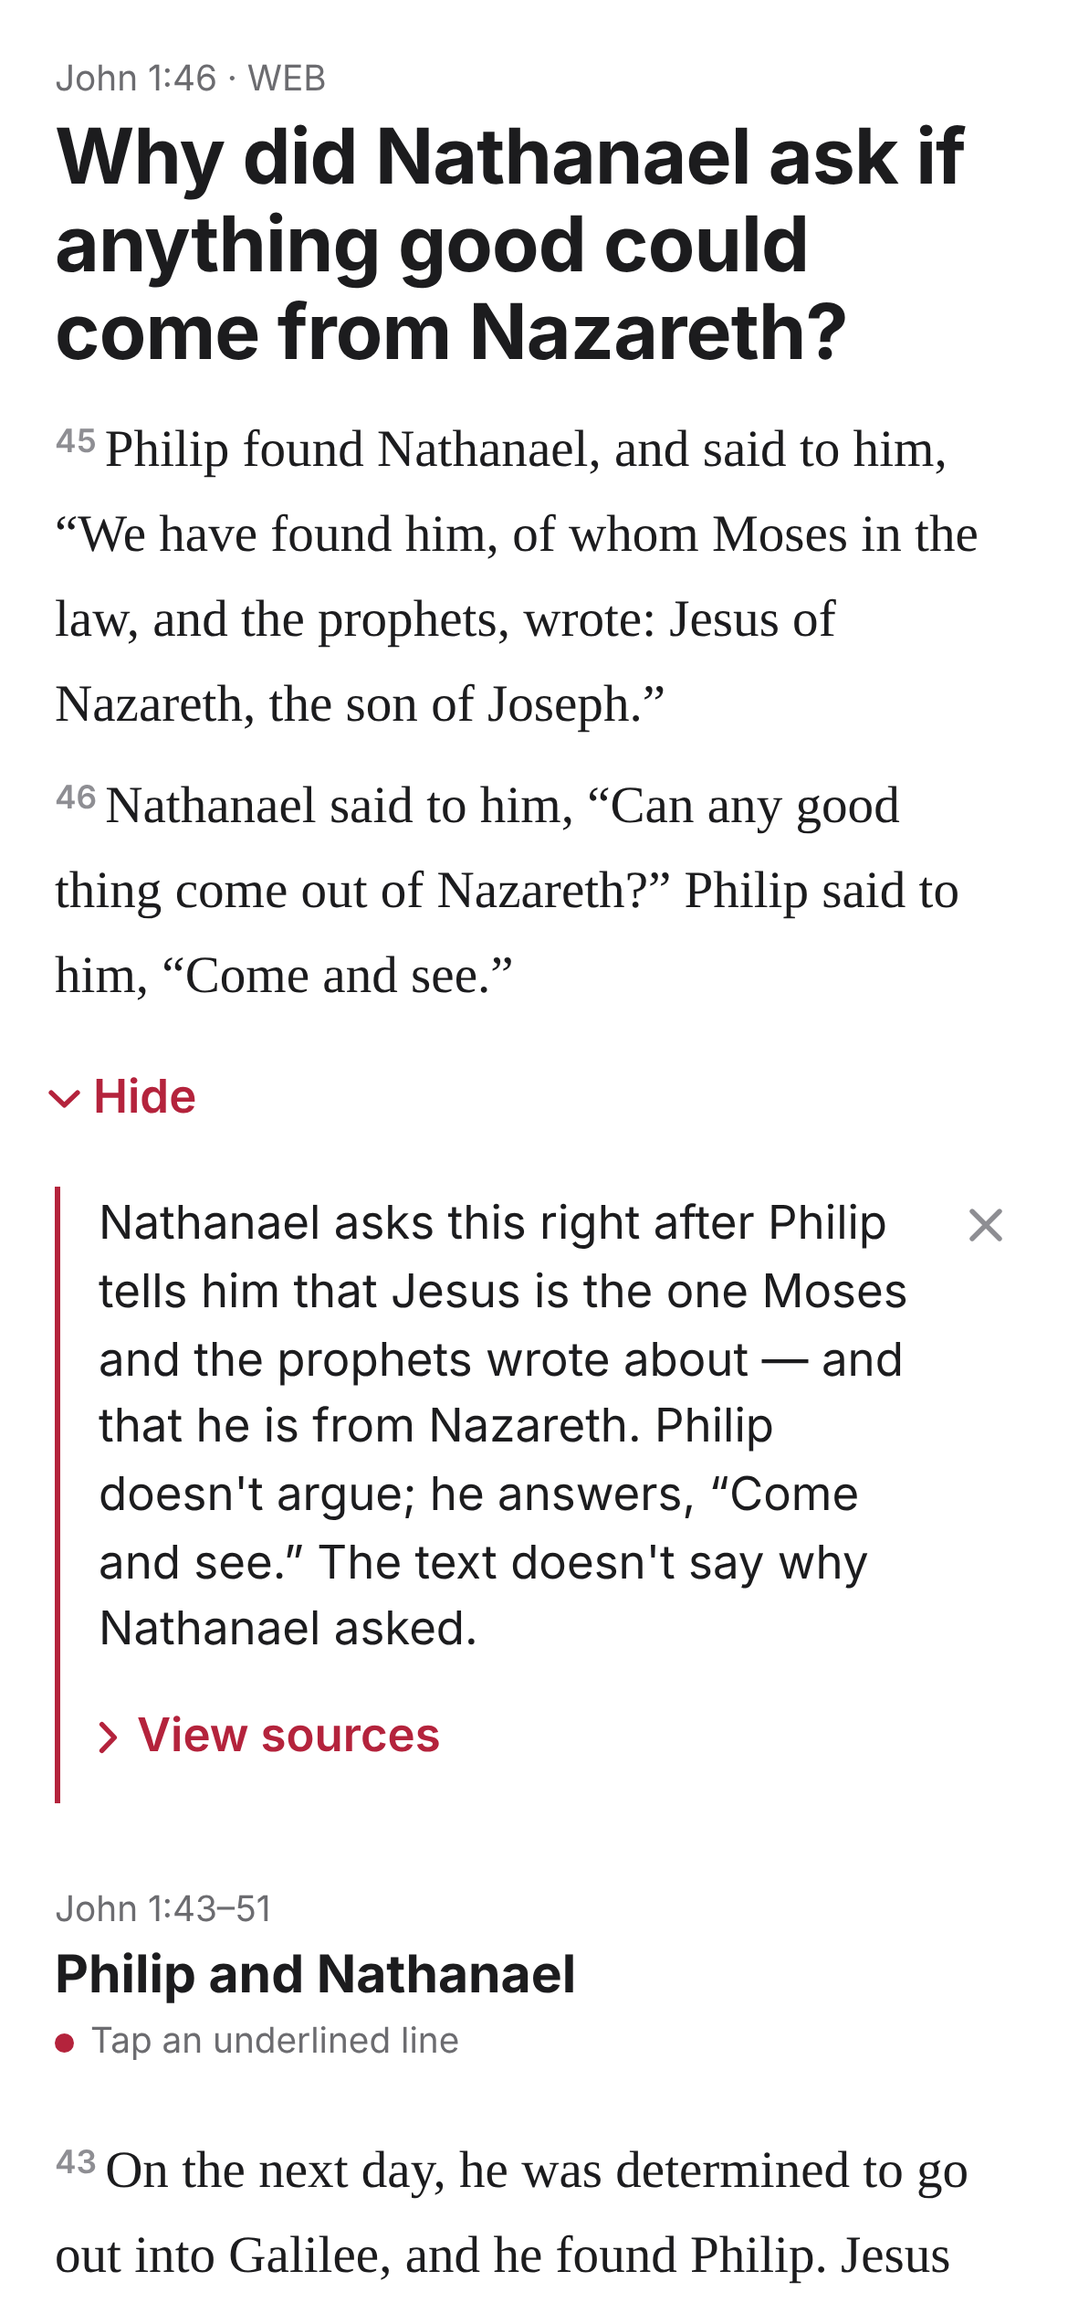
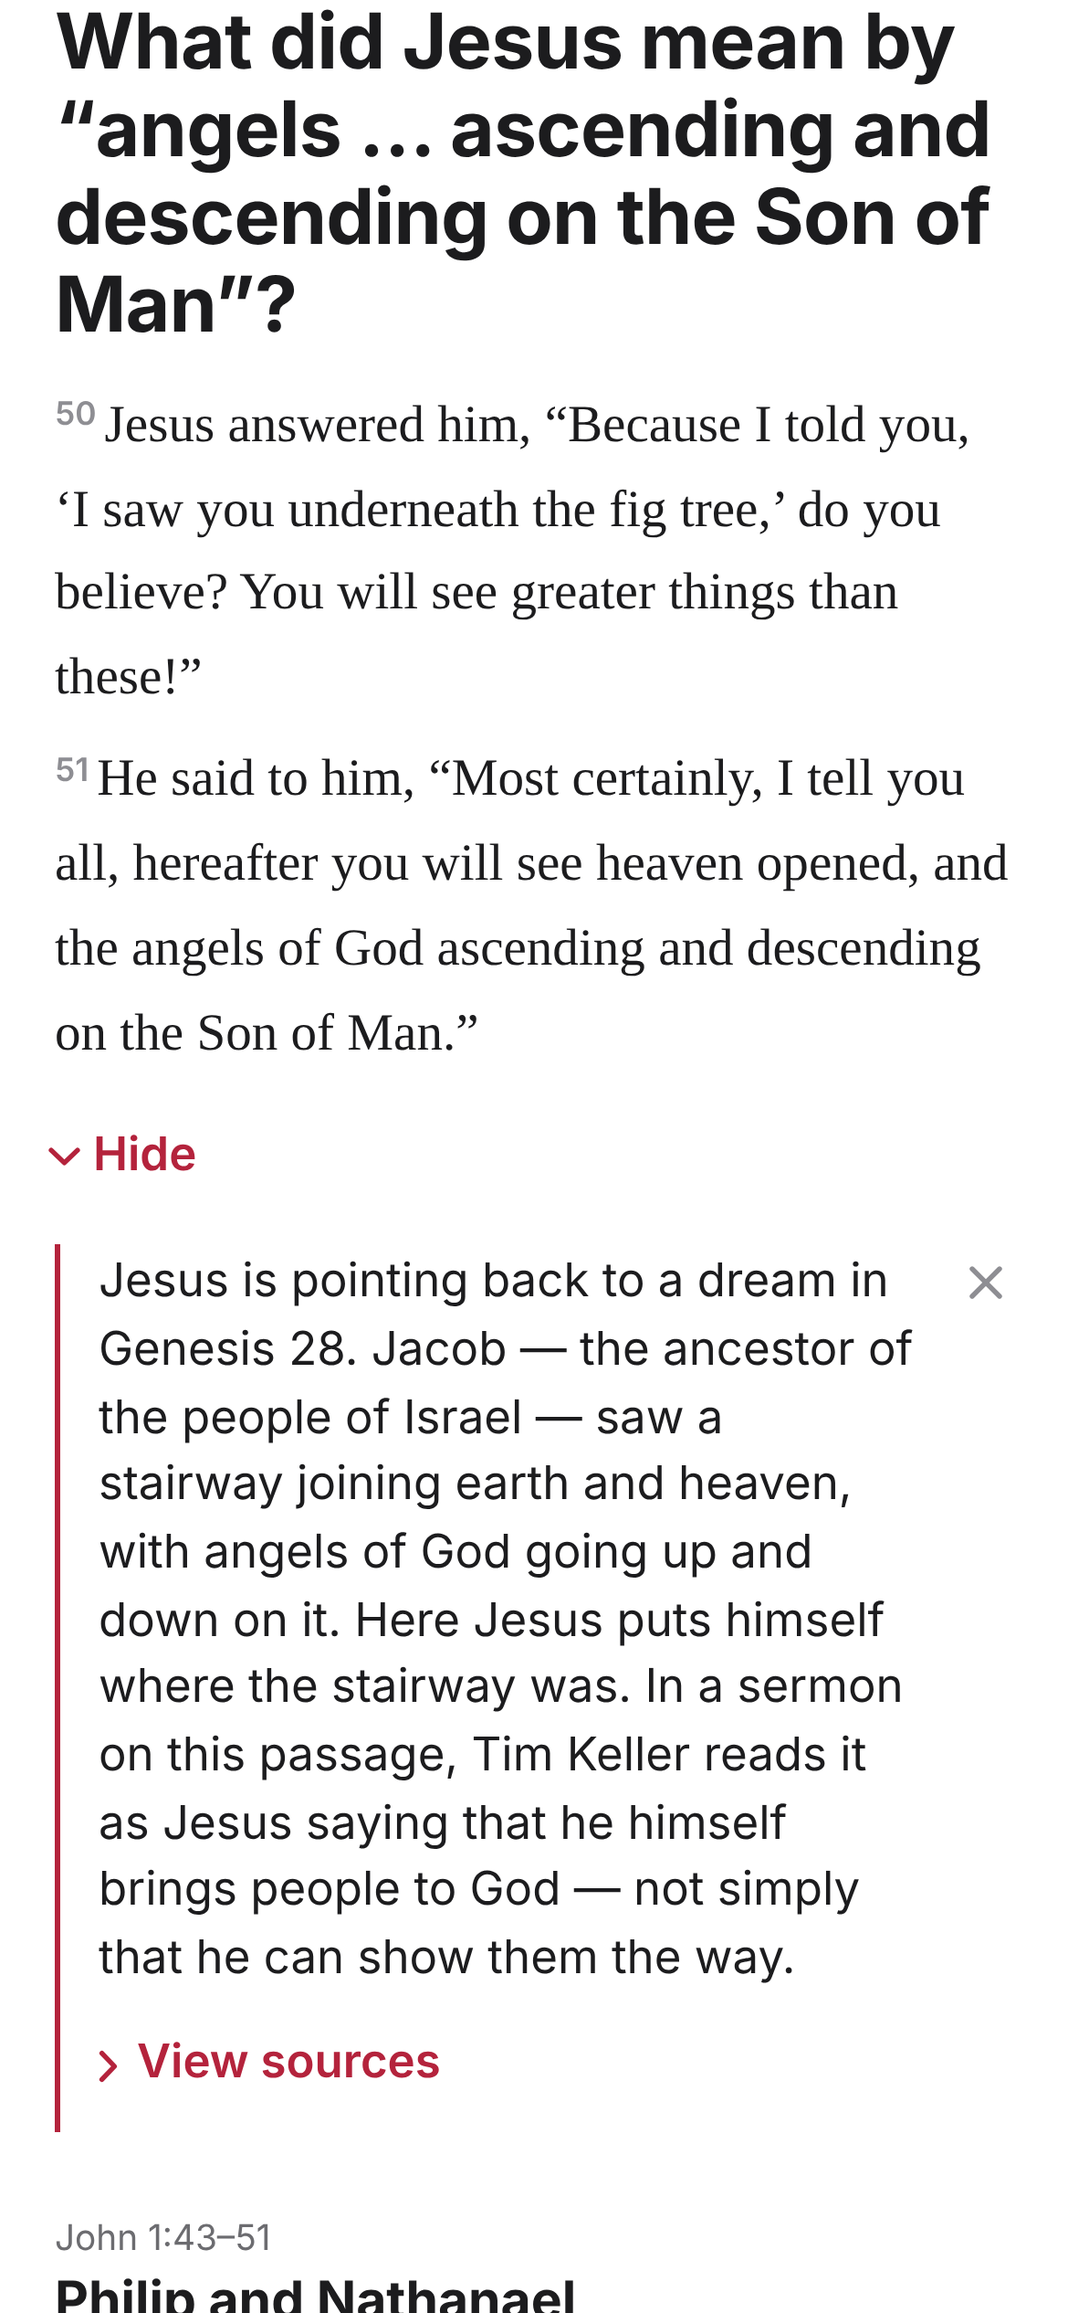
context-bible: 요 1:51 리뷰 초안(켈러 'You Shall See Heaven Open' 녹취 근거, 오디오 미대조)을 첫 화면 질문으로, 46·47 보류 유지, keller.md·REVIEW 갱신, 로봇 91/91
Claude-Session: https://claude.ai/code/session_01GVpU8e9h4SDinNEWWsTM6t

diff --git a/context_bible/robot.js b/context_bible/robot.js
@@ -12,6 +12,7 @@ const server = http.createServer((q, s) => {
   const f = path.join(DOCS, decodeURIComponent(q.url.split('?')[0].split('#')[0]));
   fs.readFile(f, (e, b) => { if (e) { s.writeHead(404); s.end(); } else { s.writeHead(200, { 'content-type': types[path.extname(f)] || 'text/plain' }); s.end(b); } });
 });
+const LEAD = 'v51'; // opening question (the one with a sourced explanation)
 const log = []; let pass = 0, fail = 0;
 const ok = (c, m) => { c ? pass++ : fail++; log.push(`${c ? 'PASS' : 'FAIL'} ${m}`); };
 
@@ -42,22 +43,24 @@ async function run(browser, base, name, opts, shots) {
   // lead question → See why → explanation → View sources (with checked commentaries) → hide
   ok(await page.locator('#q').isVisible() && (await page.locator('#q').innerText()).endsWith('?'), `[${name}] first screen starts with a question`);
   await tapEl('.lead .see');
-  ok(await page.locator('#note-v46').isVisible(), `[${name}] lead: See why opens the explanation`);
-  const leadEasy = await page.locator('#note-v46 .easy').innerText();
+  ok(await page.locator(`#note-${LEAD}`).isVisible(), `[${name}] lead: See why opens the explanation`);
+  const leadEasy = await page.locator(`#note-${LEAD} .easy`).innerText();
   ok(leadEasy.length > 80 && leadEasy.length < 560, `[${name}] lead: one short paragraph (${leadEasy.length} chars)`);
   if (shots) { await page.waitForTimeout(400); await page.screenshot({ path: path.join(OUT, `${name}-2-explanation.png`) }); }
-  await tapEl('#note-v46 .src-btn'); await page.waitForTimeout(1600);
-  const cited = await page.locator('#src-v46 .excerpt p').count(), coms = await page.locator('#src-v46 .com').count();
-  ok(cited >= 2 && coms === 0, `[${name}] lead: View sources shows the cited verses (${cited}) and no unchecked commentary`);
-  if (shots) await page.locator('#note-v46').screenshot({ path: path.join(OUT, `${name}-3-sources.png`) });
-  await tapEl('#note-v46 .src-btn');
-  ok(await page.locator('#src-v46').isHidden(), `[${name}] lead: Hide sources closes`);
+  await tapEl(`#note-${LEAD} .src-btn`); await page.waitForTimeout(1600);
+  const cited = await page.locator(`#src-${LEAD} .excerpt p`).count(), coms = await page.locator(`#src-${LEAD} .com`).count();
+  const sermon = await page.locator(`#src-${LEAD} .com a[href^="https://gospelinlife.com/sermon/"]`).count();
+  ok(cited >= 2 && coms === 1 && sermon === 1, `[${name}] lead: View sources shows Genesis 28:12 + John 1:51 (${cited} verses) and the one sermon source`);
+  if (shots) await page.locator(`#note-${LEAD}`).screenshot({ path: path.join(OUT, `${name}-3-sources.png`) });
+  await tapEl(`#note-${LEAD} .src-btn`);
+  ok(await page.locator(`#src-${LEAD}`).isHidden(), `[${name}] lead: Hide sources closes`);
   await tapEl('.lead .see');
-  ok(await page.locator('#note-v46').count() === 0, `[${name}] lead: Hide closes the explanation`);
-  ok(await page.locator('.mark[data-note="v46"]').count() === 0, `[${name}] verse 46 isn't marked twice`);
+  ok(await page.locator(`#note-${LEAD}`).count() === 0, `[${name}] lead: Hide closes the explanation`);
+  ok(await page.locator(`.mark[data-note="${LEAD}"]`).count() === 0, `[${name}] verse 51 isn't marked twice`);
+  ok((await page.locator('.lead .see').innerText()).includes('See why'), `[${name}] lead button says See why (sourced draft)`);
 
   let prev = null;
-  for (const id of ['v47', 'v51']) {
+  for (const id of ['v46', 'v47']) {
     const ls = await lines(id);
     // every line of the underlined phrase opens and closes the note with a real tap
     for (let k = 0; k < ls.length; k++) {
@@ -75,12 +78,12 @@ async function run(browser, base, name, opts, shots) {
     const easy = (await page.locator(`#note-${id} .easy`).innerText()).trim();
     ok(easy.length > 80 && easy.length < 520, `[${name}] ${id}: one short explanation (${easy.length} chars)`);
     ok(await page.locator(`#note-${id} button`).count() === 2, `[${name}] ${id}: only Close + View sources buttons`);
-    if (shots && id === 'v51') { await page.waitForTimeout(400); await page.screenshot({ path: path.join(OUT, `${name}-4-verse51.png`) }); }
+    if (shots && id === 'v46') { await page.waitForTimeout(400); await page.screenshot({ path: path.join(OUT, `${name}-4-verse46.png`) }); }
     await tapEl(`#note-${id} .src-btn`);
     await page.waitForTimeout(1600);
     const box = page.locator(`#src-${id}`);
     const ex = await box.locator('.excerpt p').count(), hl = await box.locator('mark.hl.on').count();
-    ok(await box.isVisible() && ex >= 2 && (id !== 'v51' || hl >= 1) && await box.locator('.com').count() === 0,
+    ok(await box.isVisible() && ex >= 2 && true && await box.locator('.com').count() === 0,
       `[${name}] ${id}: View sources shows passages (${ex} verses, ${hl} highlighted) + what the text does/doesn't say`);
     const sw = await page.evaluate(() => document.documentElement.scrollWidth);
     ok(sw <= opts.viewport.width, `[${name}] ${id}: no sideways scroll (${sw})`);

diff --git a/docs/context-bible/index.html b/docs/context-bible/index.html
@@ -162,9 +162,16 @@ function sourcesHTML(n){
   const cites = P.cite.map(ref => `
     <section>
       <div><span class="ref">${esc(prettyRef(ref))}</span> <span class="kind">\u00B7 WEB</span></div>
-      <div class="excerpt">${expand(ref).map(r => `<p><sup>${r.split(':')[1]}</sup> ${markup(D.texts.WEB[r], (n.links.find(l => l.highlight[r]) || {highlight:{}}).highlight[r])}</p>`).join('')}</div>
+      <div class="excerpt">${expand(ref).map(r => `<p><sup>${r.split(':')[1]}</sup> ${markup(D.texts.WEB[r], r === n.ref && P.status !== 'hold' ? [...new Set(n.links.flatMap(l => l.highlightSource))] : (n.links.find(l => l.highlight[r]) || {highlight:{}}).highlight[r])}</p>`).join('')}</div>
     </section>`).join('');
-  return `${cites}
+  const K = P.keller;
+  const sermon = K ? `
+    <section><h3>Source</h3>
+      <p class="com"><span class="ref">${esc(K.speaker)}, \u201C${esc(K.title)}\u201D</span> \u00B7 ${esc(K.date)} \u00B7 ${esc(K.scripture)}.
+      ${K.parts.map(x => `${esc(x.at)} ${esc(x.about)}`).join('; ')}. <a href="${esc(K.url)}" target="_blank" rel="noopener">Sermon page</a></p>
+      <p class="fine">Explanation is a paraphrase, not a quote. ${esc(K.status)} Review draft.</p>
+    </section>` : '';
+  return `${cites}${sermon}
     <section><p class="fine">${P.status === 'hold' ? 'This note sticks to what the text says. A fuller explanation is on hold until its sources are checked. ' : ''}Bible text: World English Bible, public domain.</p></section>`;
 }
 

diff --git a/context_bible/sources/keller.md b/context_bible/sources/keller.md
@@ -1,22 +1,27 @@
 # Tim Keller sources — what has actually been checked
 
 Rule (user, 2026-11-04): interpretation may come only from Tim Keller's own sermons and books that someone has **actually heard or read**.
-Editorial direction only — not an official or endorsed app. A title or listing alone is not evidence.
+Editorial direction only — not an official or endorsed app. A title or listing alone is not evidence. Explanations are short own-words paraphrases with a source link (user approved); no long quotes. Transcripts stay out of the repo.
+
+## John 1:51 (and 1:46) — "You Shall See Heaven Open"  → used for the 1:51 **review draft**
+- Official sermon page: **https://gospelinlife.com/sermon/you-shall-see-heaven-open/** — Tim Keller, **20 Dec 2009**, John 1:43–51, 26:08, SKU RS318-02. Codex read the overview: it links the passage to Jacob and heaven opening to the humbled. (Blocked from the cloud session.)
+- Transcript: https://clovermedia.s3.us-west-2.amazonaws.com/0b053f058a/attachments/You_Shall_See_Heaven_Open_Transcript.pdf — **third-party hosted, not an official/verified transcript**. 7 pages. Read by Codex **and** fetched and read by the dev session (2026-11-04; kept only in the session scratchpad, not in the repo).
+  - PDF pp.1–2, **02:26–05:05**: Genesis 28 — Jacob fleeing after cheating Esau, alone, dreams of a great stair with angels; the vision means God's presence coming into Jacob's life.
+  - PDF pp.3–4, **09:07–11:31**: if Jesus had only said "I can show you the gate of heaven / the connection," that would be a prophet's claim; instead he says heaven and earth meet on him — he himself (his life and death) is the connection, so God can come into the lives of people who have messed up their lives.
+  - PDF p.4, **11:31–12:52**: Nathanael's "Nazareth?" = disdain for a backwater, unimpressive place; Keller does **not** connect it to the Bethlehem prophecy.
+  - Known transcript errors: "Bethesda" for Bethsaida, misspelled names (Nathaniel, Bauchamp, Otter). Timestamps are the transcript's own, **not checked against the official audio**.
+- Status label: **transcript read, audio not verified.**
+- Corroborating lead only — **NOT inspected** (403): Redeemer 2006 Genesis leader guide "Heaven's Gate", printed p.189 Q7, https://graceb3.s3.amazonaws.com/wp-content/uploads/2018/05/GenesisLG.pdf . Do not cite as read.
 
 ## John 1:46 — "Nazareth?!"
-- URL: **https://gospelinlife.com/sermon/nazareth/** (confirmed by Codex in a browser, 2026-11-04)
-- Speaker: Tim Keller · Scripture: John 1:43–46 · Duration: 20:33 · Page has "Play Audio" / "Download Audio"
-- Date: **conflict, not resolved** — sermon detail page says **December 24, 2006**; the list blurb (gospelinlife.com/book-of-the-bible/john/page/8) says **Dec 25, 2010**, Redeemer Presbyterian Church. Both recorded; neither chosen.
-- Transcript: none readable on the page.
-- Download terms: a web search summary says the download sits behind an agreement limiting use to personal listening — **not yet read by anyone; needs checking before any transcription.**
-- Listened to: **no one yet → NOT evidence yet.**
-- Timestamp range on 1:46: _(empty — fill after listening)_
-- What Keller says about 1:46, own-words summary (2–3 lines): _(empty)_
+- URL: https://gospelinlife.com/sermon/nazareth/ (confirmed by Codex in a browser) · Tim Keller · John 1:43–46 · 20:33 · "Play Audio" / "Download Audio"
+- Date conflict, not resolved: detail page **December 24, 2006**; list blurb **Dec 25, 2010**. Both recorded.
+- No readable transcript on the page. Download reportedly behind a personal-listening agreement (not yet read). **Not listened to → not evidence yet.**
+- Meanwhile the 2009 transcript above (11:31–12:52) gives Keller's reading of 1:46 (scorn for a lowly town). 1:46 is still on hold on screen.
 
-## John 1:47, 1:51
-- Nothing found by web search. That does not mean no sermon exists — a Codex search of gospelinlife.com is requested (board/context-bible.md).
-- Held back until a source is actually heard or read.
+## John 1:47
+- No Keller source read yet. Held back. Codex search request B in board/context-bible.md.
 
-## Access tried from the cloud session (all blocked, 2026-11-04)
-gospelinlife.com (DNS blocked for WebFetch, curl refused), podcasts.apple.com, itunes.apple.com, feeds.simplecast.com, rss.art19.com, feeds.megaphone.fm, feeds.buzzsprout.com, anchor.fm, monergism.com, timothykeller.com, youtube.com, thegospelcoalition.org.
-So the audio file could not be fetched or transcribed here.
+## Access tried from the cloud session (2026-11-04)
+Blocked: gospelinlife.com, podcasts.apple.com, itunes.apple.com, feeds.simplecast.com, rss.art19.com, feeds.megaphone.fm, feeds.buzzsprout.com, anchor.fm, monergism.com, timothykeller.com, youtube.com, thegospelcoalition.org, graceb3.s3.amazonaws.com (403).
+Reachable: clovermedia.s3.us-west-2.amazonaws.com (the transcript PDF).

diff --git a/board/context-bible.md b/board/context-bible.md
@@ -2,8 +2,7 @@
 
 ## 🔁 이어받기
 - 마지막 저장: 2026-11-04 (개발 세션) · 작업 브랜치: `claude/context-bible` (main 반영)
-- 방금 끝낸 것: 켈러 기준 적용 → 46·47·51 **모두 보류(본문 요약만, 해석 없음)**. **핵심 목표("맥락 이해 돕기")는 아직 미완** — 켈러 근거 해설은 하나도 없다. 보류 중엔 버튼을 "See why" 대신 **"What the text says"** 로(이유를 약속하지 않게). 켈러 원자료 기록 `context_bible/sources/keller.md`("Nazareth?!" URL 확정, 날짜 2006-12-24 vs 2010-12-25 충돌 미해결, 아무도 아직 안 들음 → 근거 아님). 오디오는 이 환경에서 못 받음(gospelinlife·애플 팟캐스트·피드 호스트 전부 차단).
-- ⚠ 사용자 확인 필요: 다운로드가 "개인 청취 한정" 약관 뒤에 있다는 검색 요약이 있음. 앱 콘텐츠용 요약에 써도 되는지(인용·요약 범위) 사용자 판단 필요 — 약관 원문 확인도 Codex 요청에 포함.
+- 방금 끝낸 것: **요 1:51 리뷰 초안 1개(첫 화면 질문)** — 켈러 "You Shall See Heaven Open"(2009-12-20, 요 1:43-51) 근거. 공식 페이지는 Codex 가 읽음, 제3자 녹취 PDF 는 Codex·이 세션 둘 다 읽음(02:26–05:05 야곱의 꿈, 09:07–11:31 예수 자신이 하늘과 땅의 연결). **공식 오디오와 타임스탬프 대조는 아직** → 상태 "transcript read, audio not verified", 최종 아님. 46·47 은 계속 보류(46: 같은 녹취 11:31–12:52 에서 켈러는 '하찮은 시골 마을 경멸'로 읽음, 베들레헴 예언 인식 아님 — 아직 화면에 안 씀). 핵심 목표는 1개만 초안, 나머지 미완. 로봇 91/91.
 - 진행 중이던 것: 없음
 - 다음 할 일:
   0. **Codex 가 아래 '🖱 Codex 에게' 를 열어 켈러 원문 대목을 리포에 적어 주면** → 그 대목 범위 안에서만 46(그리고 근거가 있으면 47·51) 해설 재작성, View sources 에 설교 제목·URL·타임스탬프
@@ -17,6 +16,11 @@
 - 이어받기 문장: `soulfulfillable/test-mvp 의 board/context-bible.md 와 plans/context-bible.md 를 읽고 "다음 할 일"부터 이어서 해줘. CLAUDE.md·DESIGN.md·PLAYBOOK.md 규칙대로. 범위 밖(피드·결제·제출·자동 생성)은 하지 말 것.`
 
 ## 🖱 Codex 에게 (브라우저 작업) — 켈러 원자료 (2026-11-04 갱신)
+**A0. 요 1:51 오디오 대조 (최우선)**
+- URL: https://gospelinlife.com/sermon/you-shall-see-heaven-open/
+- 할 것: Play Audio 로 **02:26–05:05**(야곱의 꿈)과 **09:07–11:31**("heaven and earth intersect upon me" — 예수 자신이 연결)이 실제 오디오의 그 시각에 있는지 확인, 어긋나면 실제 시각 기록. 11:31–12:52(나사렛) 도 확인
+- 확인할 결과: `context_bible/sources/keller.md` 의 상태를 "transcript read, audio verified (YYYY-MM-DD)" 로 바꾸고 실제 시각 기록
+
 **A. "Nazareth?!" 요 1:46 대목**
 - URL: https://gospelinlife.com/sermon/nazareth/
 - 로그인 계정: 필요 없음. 결제 요구 시 멈추고 사용자에게 알림(구매 금지)

diff --git a/context_bible/REVIEW.md b/context_bible/REVIEW.md
@@ -67,6 +67,16 @@
 - 화면에서 뺀 것: 교부·아퀴나스 출처, 요 7:41-42·미 5:2·창 27:35·32:28 연결 이유(③), 'one possible reading' 류 해석 문장.
 - 다음: Codex 가 켈러 원문 대목을 확인해 주면 그 범위 안에서만 해설 복원.
 
+## John 1:51 — review draft (11-04, Keller source)
+Status: **review draft, not final.** Evidence: "You Shall See Heaven Open" (Tim Keller, 20 Dec 2009, John 1:43–51) — official page read by Codex; third-party transcript PDF read by Codex and by this session. **Official audio not yet checked** against the transcript timestamps.
+| Sentence on screen | Kind | Checked against |
+|---|---|---|
+| Jesus is pointing back to a dream in Genesis 28. | text echo | Gen 28:12 / John 1:51 same words (WEB) ✅ |
+| Jacob — the ancestor of the people of Israel — saw a stairway joining earth and heaven, with angels of God going up and down on it. | text | Gen 28:12 (stairway, top reached heaven, angels ascending/descending) ✅; "ancestor of Israel" — Gen 32:28 + transcript 02:26 ✅ |
+| Here Jesus puts himself where the stairway was. | text echo (on it → on the Son of Man) | Gen 28:12 "on it" / John 1:51 "on the Son of Man" ✅ (Son of Man = Jesus as Keller reads, "on me") |
+| Tim Keller reads it as Jesus saying that he himself brings people to God — not simply that he can show them the way. | Keller's reading (paraphrase) | transcript 09:07–11:31 ✅ (audio not verified) |
+No original-language claims. 1:46 and 1:47 still on hold (1:46: Keller's 2009 transcript 11:31–12:52 reads it as scorn for a backwater town, not Bethlehem awareness — not yet written up).
+
 ## 남은 한계 (출시 전 사람 검수 필요)
 - 사람(신학 배경) 검수 아직 없음 — 화면 하단에 "draft, not yet checked by a scholar" 표시.
 - 견해 두 개씩은 대표성을 주석서로 확인하지 못했다. 출시 전 공개 도메인 주석(예: 19세기) 또는 사용 허가 받은 현대 주석의 **해당 위치**를 붙이거나, 지금처럼 '읽기'로만 둔다.

diff --git a/PRODUCT.md b/PRODUCT.md
@@ -102,6 +102,7 @@
 
 | 날짜 | 결정 | 이유 |
 |---|---|---|
+| 2026-11-04 | 성경 동반자: **요 1:51 을 첫 화면 질문**으로, 켈러 "You Shall See Heaven Open"(2009) 근거 리뷰 초안 1개(녹취 읽음, 오디오 미대조). 46·47 보류 | 실제 근거가 확인된 1개부터 완성 |
 | 2026-11-04 | **성경 동반자: 사용자 보고는 쉬운 영어로**(앱도 영어 유지). 현재 46·47·51 은 모두 해석 보류 상태 = **핵심 목표 미완료**(완료된 켈러 해설 아님). 보류 중엔 "See why" 같은 이유 약속 문구 금지. 확인된 원자료: https://gospelinlife.com/sermon/nazareth/ ("Nazareth?!", Tim Keller, John 1:43–46, 20:33, 상세 페이지 날짜 2006-12-24 vs 목록 2010-12-25 — 불일치, 확정 안 함, 전사문 없음, 아직 아무도 들어 보지 않음 → 근거 아님). 다음 = 실제 오디오로 검증 후 1:46 하나부터 완성 | 사용자 요청 + Codex 검토(Codex 채팅 경유) |
 | 2026-11-04 | 성경 동반자: **핵심 목표(맥락 이해) 아직 미완** — 켈러 근거 해설 0개. 보류 중 버튼은 "What the text says". "Nazareth?!" URL 확정(날짜 2006/2010 충돌 미해결, 아직 아무도 안 들음). 다운로드 '개인 청취 한정' 약관 여부는 사용자 판단 필요 | 근거 없이 '이유'를 약속하지 않기 |
 | 2026-11-04 | 성경 동반자: 켈러 기준 적용 결과 **46·47·51 해설 모두 보류**(켈러 원자료 접속 불가 — gospelinlife.com 등 차단). 화면은 본문 명시 한 문단 + 인용 본문만. Codex 에게 "Nazareth?!"(2010-12-25, 요 1:43-46) 대목 확인 요청 | 확인 안 된 해석을 켈러 견해로 포장하지 않기 위해 |
